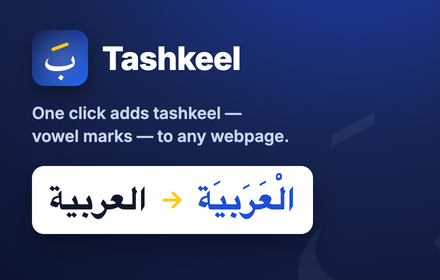
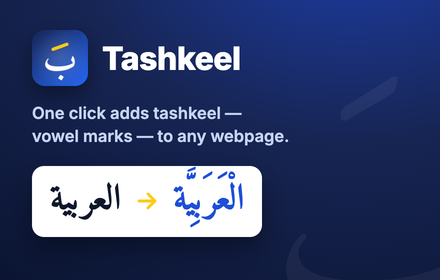
store: use Arabic font (Amiri) instead of Hebrew Frank Ruhl Libre
The store-asset sources were copied from Nekudot and still declared
Frank Ruhl Libre (a Hebrew-only font) on Arabic text and watermarks, which
silently fell back to an arbitrary system Arabic font. Switch all sources to
Amiri (a proper Naskh Arabic face with correct tashkeel positioning), matching
the new marquee tile.

- tile.html: Amiri for the demo words + watermark; also isolate bidi so the
  demo reads plain -> vowelled, and correct the vocalization to الْعَرَبِيَّة.
- shot1.html / shot5.html: Amiri for the brand label / watermarks.
- Re-rendered promo-tile-440x280.png and screenshot-5.png with Amiri.

screenshot-1.png is not re-rendered here: it embeds live news page captures
(raw/news-*.png) that aren't in the repo, so regenerating it needs a fresh
capture run. Its only font-rendered text is the small brand label.

Changed region(s): [[0.0591, 0.5714, 0.7091, 0.8571]]

diff --git a/store_assets/src/tile.html b/store_assets/src/tile.html
@@ -2,7 +2,7 @@
 <html>
 <head>
 <meta charset="utf-8">
-<link href="https://fonts.googleapis.com/css2?family=Inter:wght@500;600;700;800&family=Frank+Ruhl+Libre:wght@700;900&display=swap" rel="stylesheet">
+<link href="https://fonts.googleapis.com/css2?family=Inter:wght@500;600;700;800&family=Amiri:wght@400;700&display=swap" rel="stylesheet">
 <style>
   * { box-sizing: border-box; }
   body {
@@ -13,7 +13,7 @@
   }
   .watermark {
     position: absolute; right: -36px; bottom: -80px;
-    font-family: 'Frank Ruhl Libre'; font-weight: 900; font-size: 240px;
+    font-family: 'Amiri', serif; font-weight: 700; font-size: 220px;
     color: #fff; opacity: 0.05; line-height: 1;
   }
   .wrap { padding: 30px 32px; position: relative; }
@@ -22,11 +22,11 @@
   .name { font-size: 32px; font-weight: 800; letter-spacing: -0.5px; }
   .tag { font-size: 16.5px; font-weight: 600; color: #c7d4f2; line-height: 1.4; margin-bottom: 18px; }
   .demo {
-    display: flex; align-items: center; gap: 14px;
-    background: #fff; border-radius: 12px; padding: 12px 18px;
+    display: flex; align-items: center; gap: 14px; direction: ltr;
+    background: #fff; border-radius: 12px; padding: 10px 18px;
     width: fit-content; box-shadow: 0 12px 28px rgba(0,0,0,.4);
   }
-  .demo .heb { font-family: 'Frank Ruhl Libre'; font-weight: 700; font-size: 34px; color: #0f172a; line-height: 1.3; }
+  .demo .heb { font-family: 'Amiri', serif; font-weight: 700; font-size: 36px; color: #0f172a; line-height: 1.4; unicode-bidi: isolate; }
   .demo .heb.dotted { color: #1d4ed8; }
   .demo svg { width: 24px; height: 24px; }
 </style>
@@ -42,7 +42,7 @@
   <div class="demo">
     <span class="heb">العربية</span>
     <svg viewBox="0 0 24 24" fill="none" stroke="#facc15" stroke-width="3" stroke-linecap="round" stroke-linejoin="round"><path d="M4 12h16M13 5l7 7-7 7"/></svg>
-    <span class="heb dotted">الْعَرَبيَة</span>
+    <span class="heb dotted">الْعَرَبِيَّة</span>
   </div>
 </div>
 </body>

diff --git a/store_assets/src/shot1.html b/store_assets/src/shot1.html
@@ -2,7 +2,7 @@
 <html>
 <head>
 <meta charset="utf-8">
-<link href="https://fonts.googleapis.com/css2?family=Inter:wght@400;500;600;700;800&family=Frank+Ruhl+Libre:wght@700;900&display=swap" rel="stylesheet">
+<link href="https://fonts.googleapis.com/css2?family=Inter:wght@400;500;600;700;800&family=Amiri:wght@400;700&display=swap" rel="stylesheet">
 <style>
   * { box-sizing: border-box; }
   body {
@@ -13,7 +13,7 @@
   }
   .watermark {
     position: absolute; right: -60px; bottom: -160px;
-    font-family: 'Frank Ruhl Libre'; font-weight: 900; font-size: 560px;
+    font-family: 'Amiri', serif; font-weight: 700; font-size: 520px;
     color: #ffffff; opacity: 0.04; line-height: 1; pointer-events: none;
   }
   .wrap { display: flex; height: 100%; padding: 30px 56px; gap: 48px; align-items: center; position: relative; }
@@ -21,7 +21,7 @@
   .brand { display: flex; align-items: center; gap: 20px; margin-bottom: 34px; }
   .brand img { width: 92px; height: 92px; border-radius: 21px; box-shadow: 0 12px 32px rgba(0,0,0,.4); }
   .brand .name { font-size: 54px; font-weight: 800; letter-spacing: -1px; }
-  .brand .heb { font-family: 'Frank Ruhl Libre'; font-weight: 700; font-size: 30px; color: #facc15; margin-top: 3px; }
+  .brand .heb { font-family: 'Amiri', serif; font-weight: 700; font-size: 30px; color: #facc15; margin-top: 3px; }
   h1 { font-size: 46px; line-height: 1.12; font-weight: 800; letter-spacing: -1px; margin: 0 0 18px; }
   h1 .accent { color: #facc15; }
   .sub { font-size: 21px; line-height: 1.5; color: #c7d4f2; margin: 0 0 30px; font-weight: 500;}

diff --git a/store_assets/src/shot5.html b/store_assets/src/shot5.html
@@ -2,7 +2,7 @@
 <html>
 <head>
 <meta charset="utf-8">
-<link href="https://fonts.googleapis.com/css2?family=Inter:wght@400;500;600;700;800&family=Frank+Ruhl+Libre:wght@900&display=swap" rel="stylesheet">
+<link href="https://fonts.googleapis.com/css2?family=Inter:wght@400;500;600;700;800&family=Amiri:wght@700&display=swap" rel="stylesheet">
 <style>
   * { box-sizing: border-box; }
   body {
@@ -13,7 +13,7 @@
   }
   .watermark {
     position: absolute; left: -80px; bottom: -180px;
-    font-family: 'Frank Ruhl Libre'; font-weight: 900; font-size: 600px;
+    font-family: 'Amiri', serif; font-weight: 700; font-size: 560px;
     color: #fff; opacity: 0.04; line-height: 1;
   }
   .header { text-align: center; padding: 58px 80px 40px; position: relative; }
